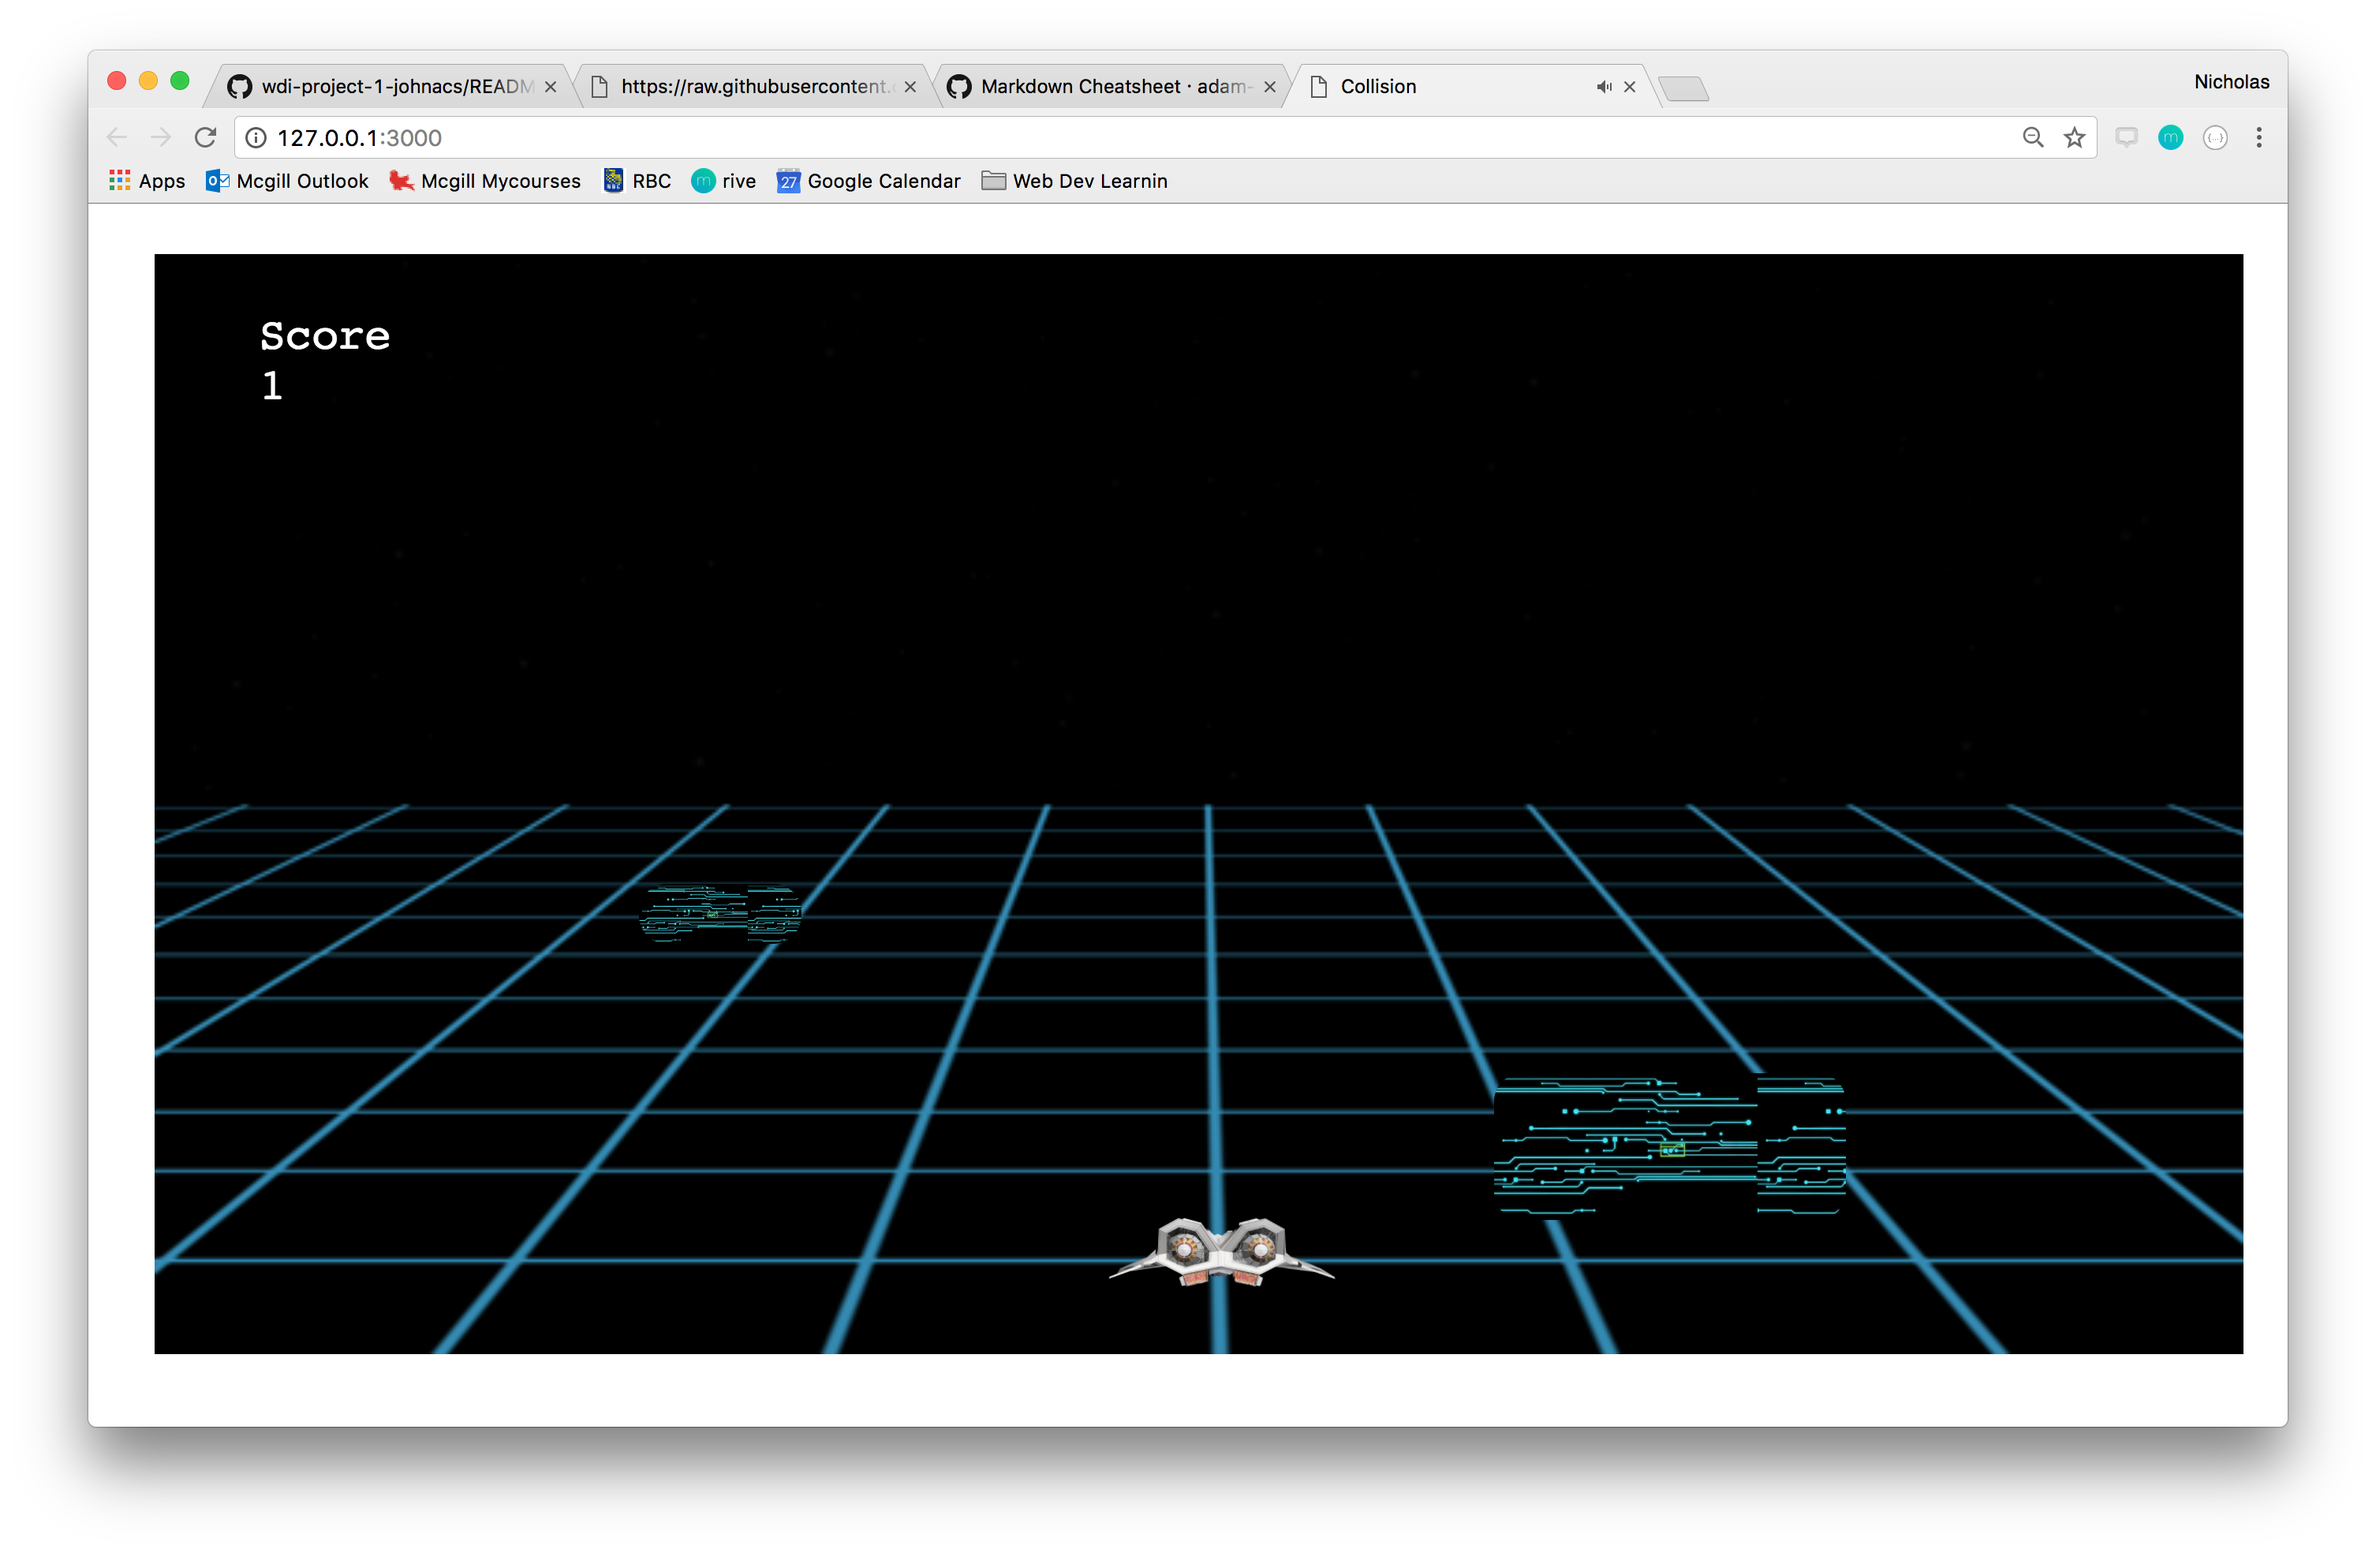
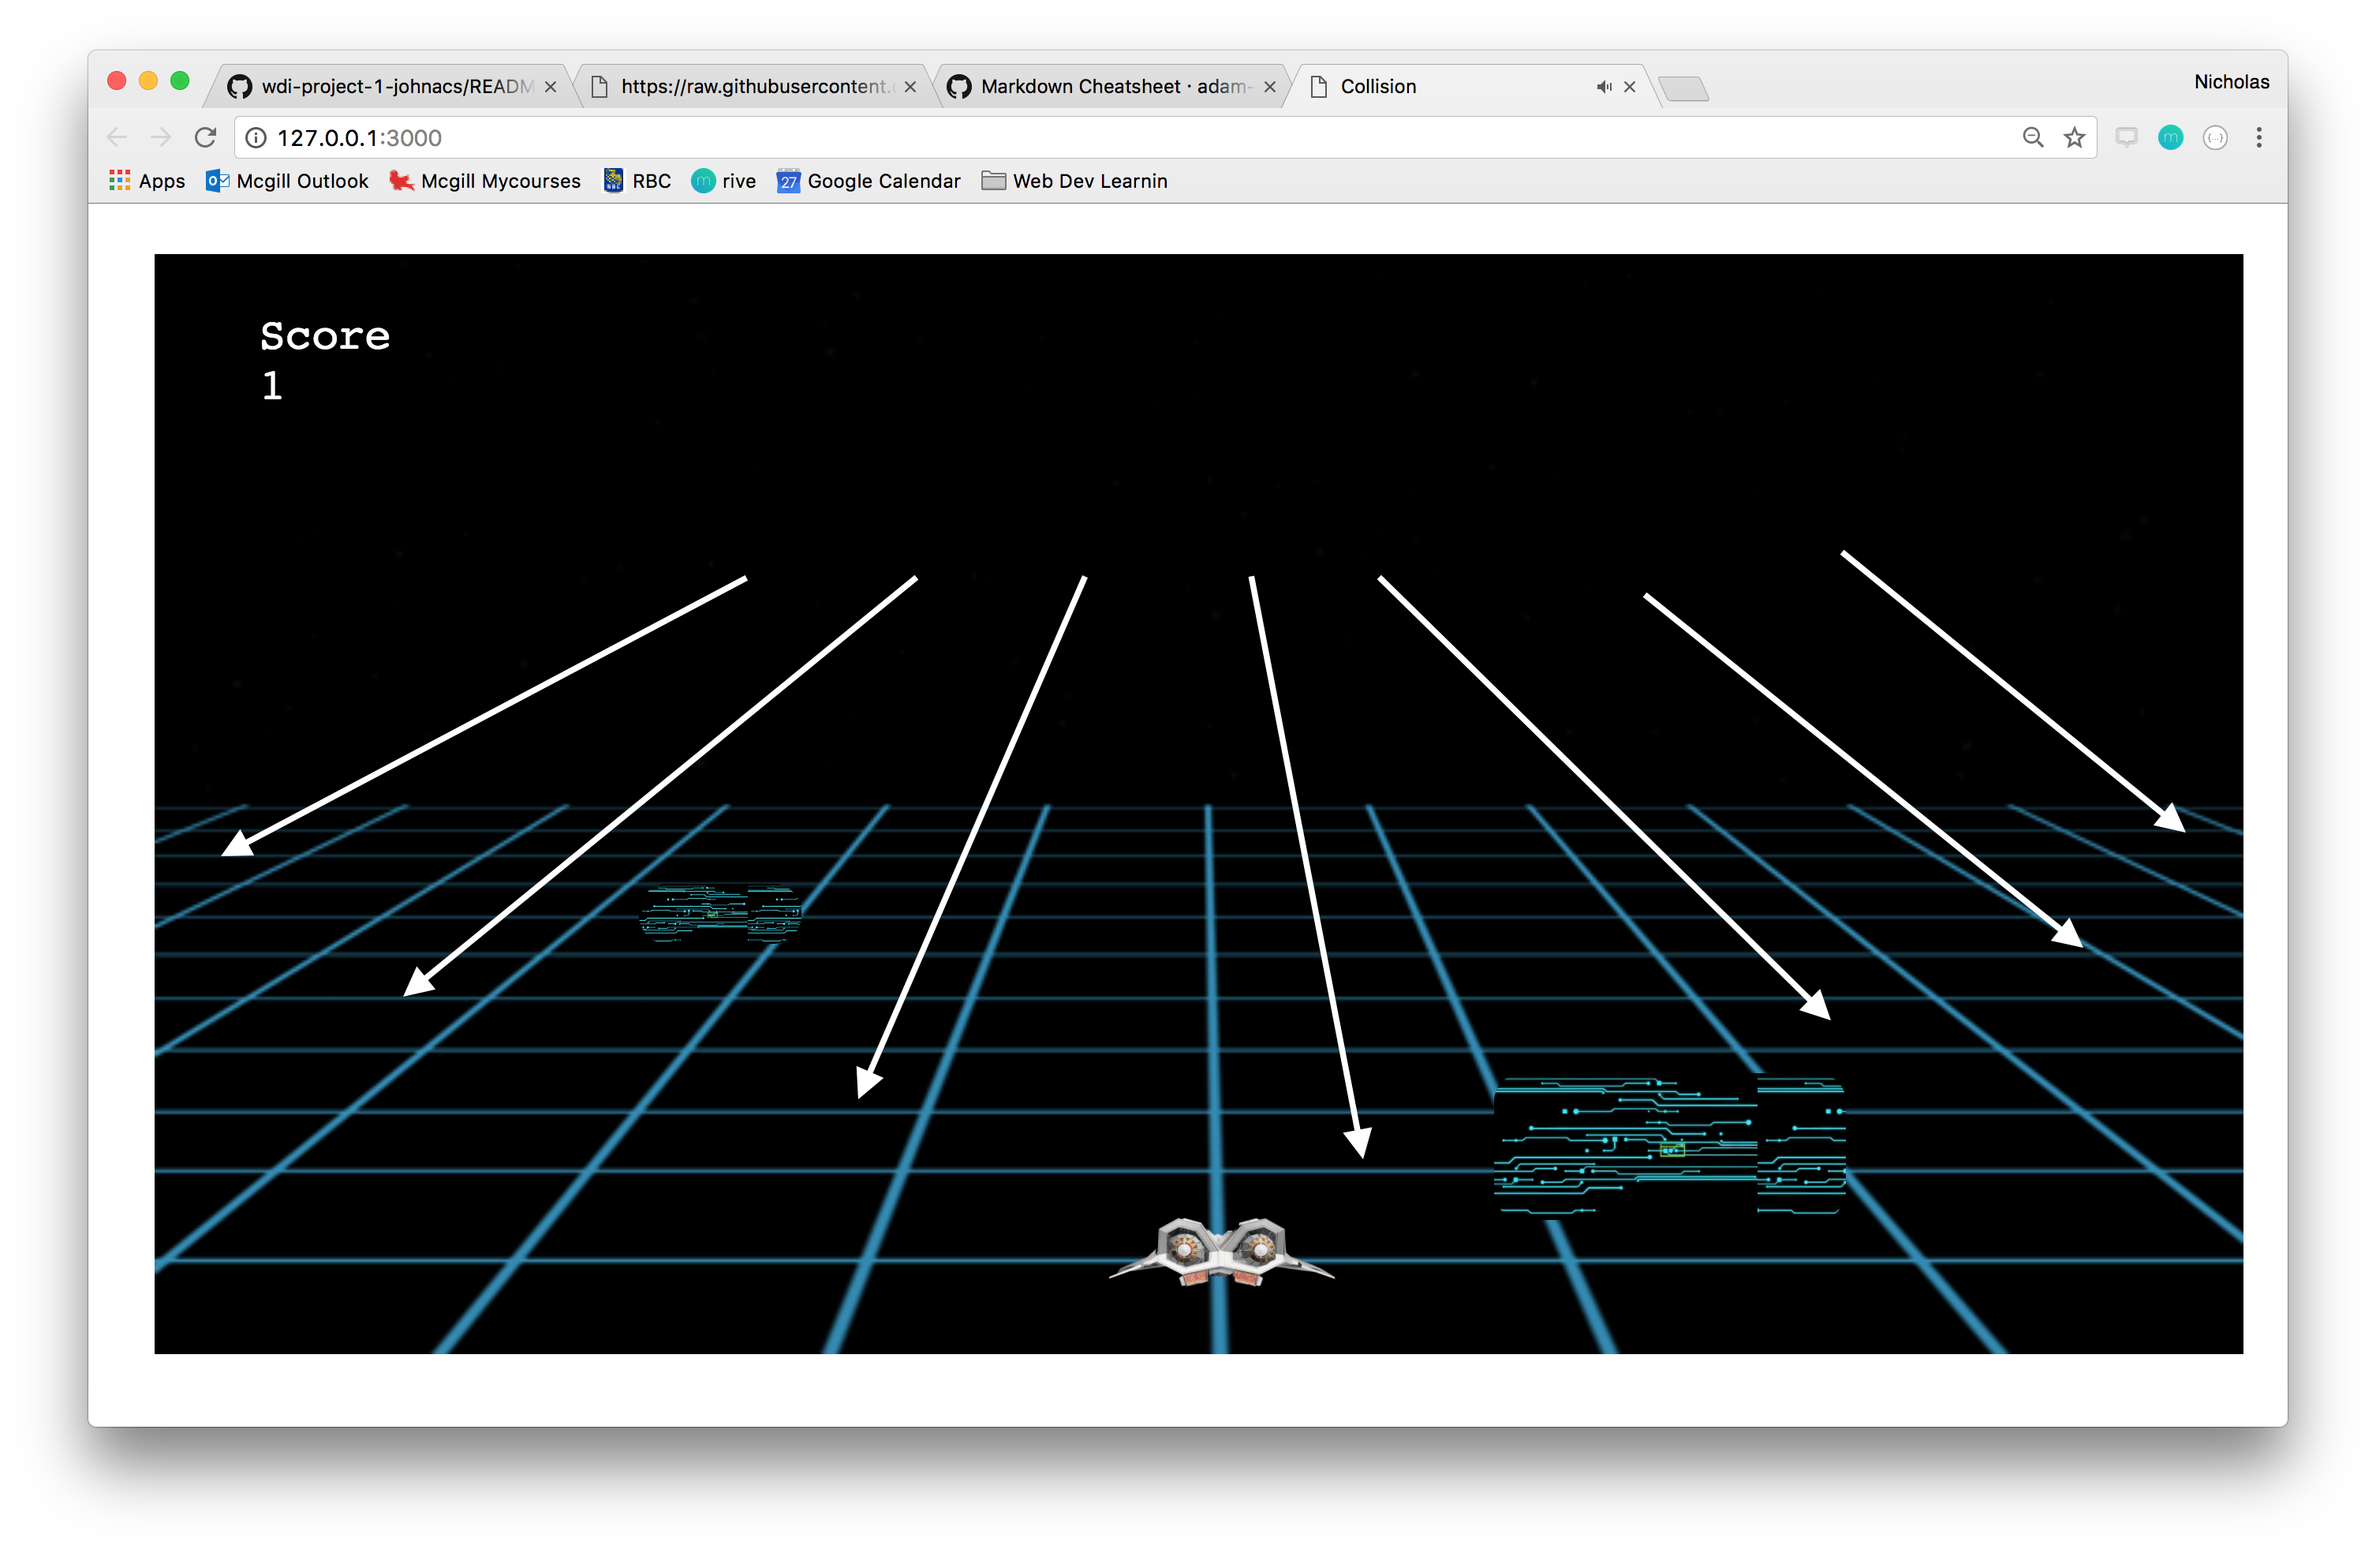
adjusted controls, completed readme

diff --git a/assets/js/script.js b/assets/js/script.js
@@ -92,13 +92,6 @@ function init () {
       scoreDiv.textContent = 'Score' + '\r\n' + score
     })
 
-// just to see mouse coordinates
-    document.addEventListener('click', function (e) {
-      var posX = e.clientX
-      var posY = e.clientY
-      console.log(posX + ' and ' + posY)
-    })
-
 // if keydown, then ship tilts left or right. Also walls move to give a sense of turning
     document.addEventListener('keydown', function (e) {
       var currentWalls = document.querySelectorAll('.wall')
@@ -106,7 +99,7 @@ function init () {
         e.preventDefault()
         spaceship.id = 'spaceshipleft'
         for (var i = 0; i < currentWalls.length; i++) {
-          wallsX(currentWalls[i], -5)
+          wallsX(currentWalls[i], -7)
         }
       } else if (event.keyCode === 39) {
         e.preventDefault()

diff --git a/assets/css/stylesheet.css b/assets/css/stylesheet.css
@@ -22,10 +22,6 @@
   color: white;
 }
 
-h6{
-
-}
-
 .startLeave{
   opacity: 0;
   visibility: hidden;
@@ -40,7 +36,7 @@ h6{
   width: 28%;
   top: 10%;
   height: 80%;
-  z-index: 3;
+  z-index: 5;
 }
 
 .ground{

diff --git a/README.md b/README.md
@@ -1,16 +1,68 @@
 # COLLISION
 ---
-##Gameplay - Instructions
+## Gameplay - Instructions
 
 ![How to play](images/forREADME1.png)
-
+Use :arrow_backward: and :arrow_forward: in order to dodge the walls that come at you! Remember to turn the sound up, and if you lose, input your name to log your highscore!
+![Gameplay](images/forREADME2.png)
 ---
 ## Game mechanics and logic
 ---
-###HTML
+### HTML
+The HTML is fairly simple.
+* The whole game is contained inside a div to allow scalability to different browser sizes (though a refresh is required)
+* The background is a gif of a moving landscape
+* The scoreboard consists of multiple divs that are set to appear when you lose. When 'play again' is clicked, they appear again
 ---
 ### CSS
+The CSS allows the scalability of the game by setting widths and heights as relative percentages of their parent element. In my soft launch, the issue was that while my game worked on my local server, it didn't work when hosted of the github server.
+* Everything is set relative to the large div so that they are relative to browser dimensions
 ---
-###Javascript
+### Javascript
+Where all the ~magic~ DOM manipulation occurs. I have a lot of functions so bear with me.
+
+init()
+* initializes global variables and sets speed of blocks, spawn rate of blocks, and score.
+* adjusts score.
+* sets a lot of event listeners to listen for key presses, clicks
+* sets a lot of interval timers to continually spawn and move walls.
+* intervals are responsible for rate of wall spawn and movement. Listeners are responsible for new game, and ship movements
+
+beginning()
+* starts music playing and generates instructions for game (which fades away)
+
+collision()
+* checks if spaceship hits any walls
+
+displayGameOver()
+* if you lose, it sets the current scoreboard, the gameover div, and the playagain button to visible.
+* it causes the spaceship to disappear
+
+spawnWalls()
+* creates a wall div and sets its width and height to random variables.
+
+fall()
+* causes wall divs to move downwards and expand, giving the illusion of a wall coming closer.
+
+wallsMove()
+* called by fall() function. Allows walls to go down (does a bunch of calculations based on browser size)
+
+wallsX()
+* Called by wallsMove(). Width is increased from the left, so this is offset by moving the wall left at the same rate at which the wall is expanding
+
 ---
-## Media
+## Media and resources used
+For my project, I used:
+* a tron themed gif that moves the floor and sky.
+* a picture of the back of a spaceship
+* a picture with a microchip design for the walls/obstacles
+* tron theme song for the audio
+
+---
+## Challenges
+The major issue I faced and eventually failed to overcome was the addition of perspective into my game.
+![Gameplay](images/forREADME2.png)
+
+It turns out, the addition of perspective is much harder than I thought. I tried to tackle the problem by multiplying the xvalue of the wall by the slope I wanted it go (using y = mx + b where m is the slope and x is the coordinate). However, while this did work for static walls, it did not work for walls that would expand. Also, because angles are different, the speeds are different. This would mean that I would have to adjust speeds and ratios for every single div element based on a function that takes their angle into account.
+
+In short, I tried to complete a task but didn't overestimated the time it would take as well as the complexity. I hope to try again one day!
